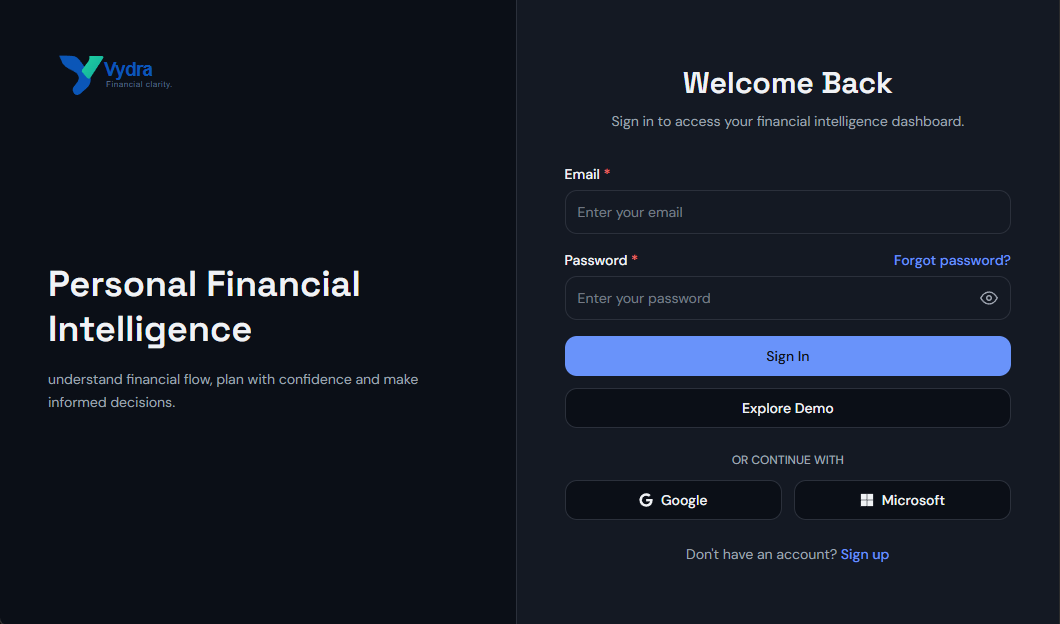
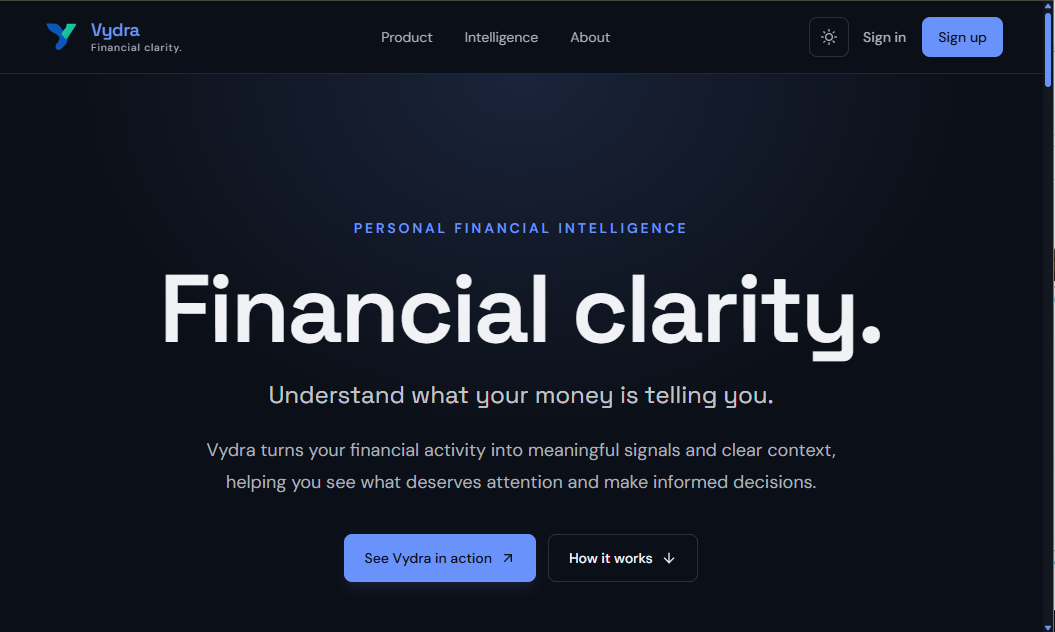
fix: change vydra positiong and thumbnail

diff --git a/src/data/projects/vydra.ts b/src/data/projects/vydra.ts
@@ -19,19 +19,21 @@ export const vydra: Project = {
   github: "https://github.com/socode-dev/vydra",
   liveDemo: "https://usevydra.vercel.app",
     
-  summary: "Vydra helps users understand their financial flow and make informed decisions. The frontend combines a responsive financial dashboard, interactive reports, AI-generated insights, and installable PWA behavior while keeping financial calculations deterministic and auditable.",
+  summary: "Vydra is a personal financial intelligence platform that helps users understand their financial activity, identify meaningful patterns, and make informed decisions. Under the hood, deterministic financial signal engines analyze activity while an AI layer provides contextual explanations, with external data ingestion, operational telemetry, and a responsive frontend bringing the resulting intelligence to users.",
 
-  problem: "Most personal finance tools display transactions and charts without explaining what requires attention. Vydra addresses this by separating financial computation from interpretation: the system calculates the facts, while AI explains the most meaningful signals without owning the underlying numbers.",
+  problem: "Most personal finance tools display transactions and charts without explaining what requires attention. Vydra addresses this product problem by separating financial computation from interpretation: the system calculates the facts, while AI explains the most meaningful signals without owning the underlying numbers.",
     
   highlights: [
-    "Built a responsive React financial dashboard with reusable layouts, charts, reports, filters, modals, responsive tables, and PWA support.",
+    "Built a responsive React financial dashboard that turns complex financial activity into clear workflows across overview, transactions, budgets, goals, insights, and reports.",
+    "Designed a role-aware admin dashboard for customer activity, intelligence, data operations, and operational investigation.",
     "Implemented a deterministic financial engine for budget calculations, spending categorisation, anomaly detection, and financial summaries.",
-    "Added a secure data ingestion pipeline that processes customer and transaction CSV files through SFTP, validates imports, generates invitations, and supports failed-file recovery.",
     "Added an AI interpretation layer where the system calculates the financial facts and AI explains the most relevant signals without owning business logic.",
+    "Added a secure data ingestion pipeline that processes customer and transaction CSV files through SFTP, validates imports, generates invitations, and supports failed-file recovery.",
     "Designed the frontend around Zustand, React Context, Firebase Authentication, Firestore, and reusable feature-level components.",
   ],
 
   challenges: [
+    "Turning dense financial data into interfaces that feel calm, legible and useful without hiding important context.",
     "Designing a prompt layer that remains stable as financial data grows while keeping AI responses grounded in deterministic signals.",
     "Building a composable financial engine where new calculation and insight rules can be added without disrupting existing behavior.",
     "Designing a reliable SFTP ingestion workflow with validation, file lifecycle management, delivery spooling, retries, and detailed failure diagnostics.",
@@ -42,7 +44,8 @@ export const vydra: Project = {
     "Constraining AI to interpretation makes the system more trustworthy, not less intelligent.",
     "Separating calculated facts from explanations creates a clearer and more auditable product boundary.",
     "Reliable data ingestion requires explicit validation, recovery paths, and observable failure states rather than assuming every import will succeed.",
-    "A reusable frontend architecture is most valuable when multiple financial workflows depend on the same data and interaction patterns.",
+    "Product clarity depends on making complex workflows understandable before adding more functionality.",
+    "A reusable frontend architecture is most valuable when multiple workflows depend on the same data and interaction patterns.",
   ],
   
   pinned: true,

diff --git a/src/pages/projects/ProjectDetail.tsx b/src/pages/projects/ProjectDetail.tsx
@@ -75,7 +75,7 @@ const ProjectDetail = () => {
         <div className="space-y-4 p-6 sm:p-8">
           <div className="flex flex-wrap items-center gap-2">
             <Badge variant="outline" className="capitalize">
-              {project.status.replace("-", " ")}
+              {project.status === "production-iterating" ? project.status.replace("-", " • ") : project.status.replace("-", " ")}
             </Badge>
           </div>
 
@@ -84,7 +84,7 @@ const ProjectDetail = () => {
           </h1>
 
           <p className="max-w-3xl text-balance text-base text-muted-foreground sm:text-lg">
-            {project.description}
+            {project.summary}
           </p>
 
           <div className="flex flex-wrap gap-1.5 pt-1">
@@ -96,47 +96,54 @@ const ProjectDetail = () => {
           </div>
 
           <div className="flex flex-wrap items-center gap-2 pt-1">
-            {project.github ? (
+            {project.github && (
               <Button asChild size="sm" variant={isFinished ? "default" : "outline"}>
                 <a href={project.github} target="_blank" rel="noreferrer">
                   <Github className="h-4 w-4" /> GitHub
                 </a>
               </Button>
-            ) : null}
-            {project.liveDemo ? (
+            )}
+
+            {!!project.liveDemo && (
               <Button asChild size="sm" variant="outline">
                 <a href={project.liveDemo} target="_blank" rel="noreferrer">
                   <ExternalLink className="h-4 w-4" /> Live Demo
                 </a>
               </Button>
-            ) : null}
-            {project.documentation ? (
+            )}
+
+            {project.documentation && (
               <Button asChild size="sm" variant="outline">
                 <a href={project.documentation} target="_blank" rel="noreferrer">
                   <FileText className="h-4 w-4" /> Documentation
                 </a>
               </Button>
-            ) : null}
+            )}
           </div>
         </div>
       </header>
 
       <div className="grid grid-cols-1 gap-6 lg:grid-cols-3">
         <div className="space-y-8 lg:col-span-2">
-          <Section title="Summary">
-            <p>{project.summary}</p>
-          </Section>
-          {!!project.highlights &&
+          {project.problem && 
+            <Section title="Problem">
+              <p>{project.problem}</p>
+            </Section>
+          }
+
+          {!!project.highlights?.length &&
             <Section title="Highlights">
               <BulletList items={project.highlights} />
             </Section>
           }
-          {!!project.challenges &&
+
+          {!!project.challenges?.length &&
             <Section title="Challenges">
               <BulletList items={project.challenges} />
             </Section>
           }
-          {!!project.lessonsLearned &&
+
+          {!!project.lessonsLearned?.length &&
             <Section title="Lessons learned">
               <BulletList items={project.lessonsLearned} />
             </Section>

diff --git a/src/pages/projects/components/ProjectCard.tsx b/src/pages/projects/components/ProjectCard.tsx
@@ -2,19 +2,18 @@ import { Badge } from "@/components/ui/badge";
 import { Button } from "@/components/ui/button";
 import { Card, CardContent } from "@/components/ui/card";
 import { cn } from "@/lib/utils";
-import type { Project } from "@/types/project";
+import type { Project, ProjectStatus } from "@/types/project";
 import { motion } from "framer-motion";
 import { ArrowUpRight, ExternalLink, FileText } from "lucide-react";
 import { FaGithub } from "react-icons/fa";
 import { Link } from "react-router";
 
-const statusStyles: Record<string, string> = {
-  "in-progress":
-    "bg-amber-500/20 text-amber-700 dark:text-amber-300 border border-amber-500/30",
-  shipped:
-    "bg-emerald-500/20 text-emerald-700 dark:text-emerald-300 border border-emerald-500/30",
-  archived: "bg-muted text-muted-foreground border border-border",
-  concept: "bg-violet-500/10 text-violet-700 dark:text-violet-300 border border-violet-500/30",
+const statusStyles: Record<ProjectStatus, string> = {
+    "in-progress": "bg-amber-500/20 text-amber-500 dark:text-amber-300 border border-amber-500/30",
+    "production-iterating": "bg-fuchsia-500/20 text-fuchsia-500 dark:text-fuchsia-300 border border-fuchsia-500/30",
+    shipped: "bg-emerald-500/20 text-emerald-900 dark:text-emerald-300 border border-emerald-500/30",
+    archived: "bg-muted text-muted-foreground border border-border",
+    concept: "bg-violet-500/10 text-violet-700 dark:text-violet-300 border border-violet-500/30",
 };
 
 const ProjectThumbnail = ({project}: {project: Project}) => {
@@ -33,7 +32,7 @@ const ProjectThumbnail = ({project}: {project: Project}) => {
 
             <div className="absolute left-3 top-3">
                 <span
-                    className={cn("backdrop-blur-md shadow-md rounded-full px-2 py-0.5 text-[10px] font-medium capitalize", statusStyles[project.status])}
+                    className={cn("backdrop-blur-3xl shadow-md rounded-full px-2 py-0.5 text-[10px] font-medium capitalize", statusStyles[project.status])}
                 >
                     {project.status === "production-iterating" ? project.status.replace("-", " • ") : project.status.replace("-", " ")}
                 </span>
@@ -96,7 +95,7 @@ const ProjectDetail = ({project}: {project: Project}) => {
                 <Link
                     to={`/projects/${project.slug}`}
                     className="font-medium w-fit text-xs text-primary hover:underline"
-                >View details →</Link>
+                >Case Study →</Link>
             </div>
             
         </div>

diff --git a/src/pages/dashboard/components/Hero.tsx b/src/pages/dashboard/components/Hero.tsx
@@ -36,9 +36,9 @@ const Hero = () => {
             <p className="text-sm text-muted-foreground sm:text-base">
               I believe software should be predictable first, intelligent second. Build systems you can trust, then use AI to make them easier to understand. I'm currently evolving{" "}
               <Link to="/projects/smartbudget" className="font-medium text-foreground hover:text-primary">
-                SmartBudget
+                Vydra
               </Link>
-              , a deterministic financial intelligence platform built on that principle.
+              , a personal financial intelligence platform built on that principle.
             </p>
             <div className="flex flex-wrap items-center gap-2 pt-1">
               <Button asChild size="sm">
